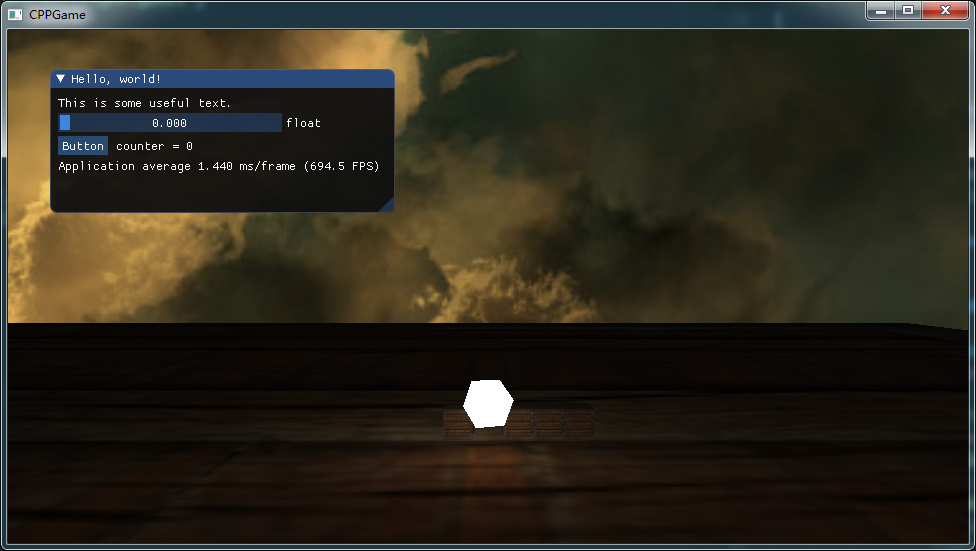
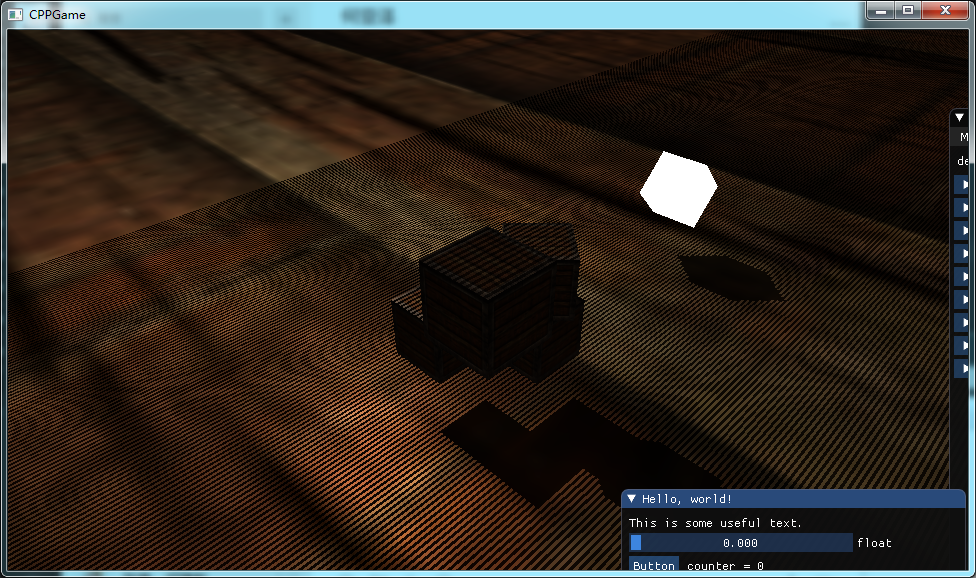
* 实现了最简单的阴影

diff --git a/FrameWork/Render/Platform/Windows/GraphicsManager.cpp b/FrameWork/Render/Platform/Windows/GraphicsManager.cpp
@@ -78,9 +78,17 @@ namespace GameEngine
     {
     }
 
+    void GraphicsManager::SetTexture(SharedShaderProgramBase shader, std::string name, int id)
+    {
+        shader->Use();
+        shader->setInt(name, textureIndex);
+        glActiveTexture(GL_TEXTURE0 + textureIndex);
+        glBindTexture(GL_TEXTURE_2D, id);
+        textureIndex++;
+    }
+
     void GraphicsManager::PrepareMaterial(SharedMaterial material)
     {
-        int textureID = 0;
         if (material->shaderID <= 0)
             material->shaderID = g_pShaderManager->AddShaderByPath(
                 material->GetShaderPath(ShaderType::Vertex),
@@ -89,10 +97,7 @@ namespace GameEngine
         // SetModelInfos(rC.modelInfos);
         // SetUBOData(shader);
         shader->Use();
-        shader->setInt("shadowMap", textureID);
-        glActiveTexture(GL_TEXTURE0 + textureID);
-        glBindTexture(GL_TEXTURE_2D, shadowMap);
-        textureID++;
+        SetTexture(shader, "shadowMap", shadowMap);
         for (size_t i = 0; i < material->m_MaterialDatas.size(); i++)
         {
             switch (material->m_MaterialDatas[i].m_Type)
@@ -112,14 +117,11 @@ namespace GameEngine
                     SharedTexture image = g_pAssetManager->LoadTexture(property);
                     if (!image)
                         image = g_pAssetManager->getWhiteTexture();
-                    shader->setInt(material->m_MaterialDatas[i].m_Name, textureID);
                     if (image->id <= 0)
                     {
                         BindTexture(image);
                     }
-                    glActiveTexture(GL_TEXTURE0 + textureID);
-                    glBindTexture(GL_TEXTURE_2D, image->id);
-                    textureID++;
+                    SetTexture(shader, material->m_MaterialDatas[i].m_Name, image->id);
                 }
                 break;
             }
@@ -127,6 +129,7 @@ namespace GameEngine
                 break;
             }
         }
+        textureIndex = 0;
     }
 
     void GraphicsManager::BindTexture(SharedTexture texture)
@@ -351,21 +354,20 @@ namespace GameEngine
         const int32_t kShadowMapWidth = 1024;
         const int32_t kShadowMapHeight = 1024;
 
-        auto fbo = (GLuint)shadowFBO;
-        glGenFramebuffers(1, &fbo);
-        glBindFramebuffer(GL_FRAMEBUFFER, fbo);
-        glFramebufferTextureLayer(GL_FRAMEBUFFER, GL_DEPTH_ATTACHMENT, (GLuint)shadowMap, 0, layerIndex);
-
+        glGenFramebuffers(1, &shadowFBO);
+        glBindFramebuffer(GL_FRAMEBUFFER, shadowFBO);
+        // glFramebufferTextureLayer(GL_FRAMEBUFFER, GL_DEPTH_ATTACHMENT, (GLuint)shadowMap, 0, layerIndex);
+        glFramebufferTexture2D(GL_DRAW_FRAMEBUFFER, GL_DEPTH_ATTACHMENT, GL_TEXTURE_2D, shadowMap, 0);
         // Always check that our framebuffer is ok
         auto status = glCheckFramebufferStatus(GL_FRAMEBUFFER);
         if (status != GL_FRAMEBUFFER_COMPLETE)
             assert(0);
 
-        glDrawBuffers(0, nullptr);  // No color buffer is drawn to.
+        glDrawBuffer(GL_NONE);
+        glReadBuffer(GL_NONE);
         glDepthMask(GL_TRUE);
         glClear(GL_DEPTH_BUFFER_BIT);
         glViewport(0, 0, kShadowMapWidth, kShadowMapHeight);
-        shadowFBO = fbo;
     }
     void GraphicsManager::EndShadow()
     {
@@ -376,26 +378,24 @@ namespace GameEngine
         if (shadowMap > 0)
         {
             DeleteShadowArrsy();
+            // return shadowMap;
         }
         // Depth texture. Slower than a depth buffer, but you can sample it later in your shader
         const int32_t kShadowMapWidth = 1024;
         const int32_t kShadowMapHeight = 1024;
 
-        auto shadow = (GLuint)shadowMap;
+        const GLuint SHADOW_WIDTH = 1024, SHADOW_HEIGHT = 1024;
 
-        glGenTextures(1, &shadow);
-        glActiveTexture(GL_TEXTURE0 + shadow);
-        glBindTexture(GL_TEXTURE_2D_ARRAY, shadow);
-        glTexStorage3D(GL_TEXTURE_2D_ARRAY, 1, GL_DEPTH_COMPONENT24, kShadowMapWidth, kShadowMapHeight, count);
-        glTexParameteri(GL_TEXTURE_2D_ARRAY, GL_TEXTURE_MAG_FILTER, GL_NEAREST);
-        glTexParameteri(GL_TEXTURE_2D_ARRAY, GL_TEXTURE_MIN_FILTER, GL_NEAREST);
-        glTexParameteri(GL_TEXTURE_2D_ARRAY, GL_TEXTURE_WRAP_S, GL_CLAMP_TO_EDGE);
-        glTexParameteri(GL_TEXTURE_2D_ARRAY, GL_TEXTURE_WRAP_T, GL_CLAMP_TO_EDGE);
-        glTexImage3D(GL_TEXTURE_2D_ARRAY, 0, GL_DEPTH_COMPONENT24, kShadowMapWidth, kShadowMapHeight, count, 0, GL_DEPTH_COMPONENT, GL_FLOAT, 0);
-
-        shadowMap = shadow;
+        glGenTextures(1, &shadowMap);
+        glBindTexture(GL_TEXTURE_2D, shadowMap);
+        glTexImage2D(GL_TEXTURE_2D, 0, GL_DEPTH_COMPONENT,
+                     SHADOW_WIDTH, SHADOW_HEIGHT, 0, GL_DEPTH_COMPONENT, GL_FLOAT, NULL);
+        glTexParameteri(GL_TEXTURE_2D, GL_TEXTURE_MIN_FILTER, GL_NEAREST);
+        glTexParameteri(GL_TEXTURE_2D, GL_TEXTURE_MAG_FILTER, GL_NEAREST);
+        glTexParameteri(GL_TEXTURE_2D, GL_TEXTURE_WRAP_S, GL_REPEAT);
+        glTexParameteri(GL_TEXTURE_2D, GL_TEXTURE_WRAP_T, GL_REPEAT);
         // register the shadow map
-        return static_cast<intptr_t>(shadow);
+        return static_cast<intptr_t>(shadowMap);
     }
     void GraphicsManager::DeleteShadowArrsy()
     {

diff --git a/GameLogic/MyGameLogic.cpp b/GameLogic/MyGameLogic.cpp
@@ -2,23 +2,36 @@
 
 #include "AssetLoader.h"
 #include "Camera.h"
+#include "GameObject.h"
 #include "Scene.h"
 #include "SceneManager.h"
+#include "Transform.h"
 
 namespace GameEngine
 {
     extern SceneManager *g_pSceneManager;
     extern AssetLoader *g_pAssetLoader;
+    VecterFloat3 rotation(0);
     int MyGameLogic::Initialize()
     {
         std::string sceneStr = g_pAssetLoader->SyncOpenAndReadTextFileToString("Scene/new.scene");
         auto json = cJSON_Parse(sceneStr.c_str());
-        SharePtr<Scene> m_Scene = std::make_shared<Scene>();
+        m_Scene = std::make_shared<Scene>();
         m_Scene->OnDeserialize(json);
         g_pSceneManager->SetNextScene(m_Scene);
+
+        auto trans = m_Scene->GetRootGameObject()->getChildByName("dirLight")->getComponent<Transform>();
+        auto lightmat4 = glm::lookAt(trans->GetPosition(), glm::vec3(0.0f), glm::vec3(0.0, 1.0, 0.0));
+        trans->SetMatrix(lightmat4);
+
+        trans = m_Scene->GetRootGameObject()->getChildByName("cameraObject")->getComponent<Transform>();
+        auto camera = glm::lookAt(trans->GetPosition(), glm::vec3(0.0f), glm::vec3(0.0, 1.0, 0.0));
+        trans->SetMatrix(camera);
         return 0;
     }
     void MyGameLogic::Finalize() {}
-    void MyGameLogic::Tick(float deltaTime) {}
+    void MyGameLogic::Tick(float deltaTime)
+    {
+    }
 
 }  // namespace GameEngine

diff --git a/FrameWork/Render/BaseGraphicsManager.cpp b/FrameWork/Render/BaseGraphicsManager.cpp
@@ -120,9 +120,7 @@ namespace GameEngine
             auto pos = transfrom->GetPosition();
             auto dir = transfrom->GetMatrix() * VecterFloat4(1, 0, 0, 0);
 
-            glm::mat4 lightProjection = glm::ortho(-10.0f, 10.0f, -10.0f, 10.0f, 1.0f, 7.5f);
-            
-            memcpy(m_LightInfos.lights[index].u_projection_matrix, glm::value_ptr(lightProjection), sizeof(float) * 4 *4);
+            memcpy(m_LightInfos.lights[index].u_projection_matrix, glm::value_ptr(glm::ortho(-30.0f, 30.0f, -30.0f, 30.0f, 0.10f, 100.f)), sizeof(float) * 4 *4);
             memcpy(m_LightInfos.lights[index].u_view_matrix, glm::value_ptr(transfrom->GetMatrix()), sizeof(float) * 4 *4);
 
             memcpy(m_LightInfos.lights[index].color, glm::value_ptr(light->GetColor()), sizeof(float) * 4);

diff --git a/FrameWork/Render/Platform/Windows/GraphicsManager.h b/FrameWork/Render/Platform/Windows/GraphicsManager.h
@@ -29,6 +29,7 @@ namespace GameEngine
         virtual void PrepareMaterial(SharedMaterial) override;
 
 #pragma region 设置Uniform
+        virtual void SetTexture(SharedShaderProgramBase shader, std::string name, int id) override;
         virtual void SetUBOData(SharedShaderProgramBase shader) override;
         virtual void SetLightInfo(const LightInfo& lightInfo) override;
         virtual void SetViewInfos(const ViewInfos& infos) override;
@@ -52,6 +53,8 @@ namespace GameEngine
 
         unsigned int shadowMap = 0;
         unsigned int shadowFBO = 0;
+
+        int textureIndex = 0;
     };
 
 }  // namespace GameEngine

diff --git a/FrameWork/Render/Sub/ShadowPass.h b/FrameWork/Render/Sub/ShadowPass.h
@@ -31,8 +31,7 @@ namespace GameEngine
             auto shader = g_pShaderManager->GetShaderProgram(m_ShaderID);
             shader->Use();
             auto m_LightInfos = g_pGraphicsManager->GetLightInfo();
-			g_pGraphicsManager->DeleteShadowArrsy();
-            auto shadowMap = g_pGraphicsManager->GetShadowArray(m_LightInfos.numsLight);
+            g_pGraphicsManager->GetShadowArray(m_LightInfos.numsLight);
             uint32_t index = 0;
             for (int i = 0; i < m_LightInfos.numsLight; i++)
             {

diff --git a/FrameWork/Render/Draw/ForwardDrawPass.h b/FrameWork/Render/Draw/ForwardDrawPass.h
@@ -14,7 +14,7 @@ namespace GameEngine
             m_SubPasses.push_back(std::make_shared<ShadowPass>());
             m_SubPasses.push_back(std::make_shared<ForwardPass>());
             m_SubPasses.push_back(std::make_shared<CubPass>());
-            // m_SubPasses.push_back(std::make_shared<ImGuiPass>());
+            m_SubPasses.push_back(std::make_shared<ImGuiPass>());
 
             for (auto pass : m_SubPasses)
             {

diff --git a/FrameWork/Scene/Transform.cpp b/FrameWork/Scene/Transform.cpp
@@ -41,7 +41,10 @@ namespace GameEngine
         m_Matrix = glm::scale(m_Matrix, scale);
         m_Matrix = m_Matrix * glm::mat4_cast(glm::qua<float>(glm::radians(rotation)));
     }
-
+    void Transform::SetMatrix(glm::mat4 mat4)
+    {
+        m_Matrix = glm::mat4(mat4);
+    }
     void Transform::OnSerialize(cJSON *root)
     {
         SerializableHelper::Seserialize(root, "rotation", m_Rotation);

diff --git a/FrameWork/Render/BaseGraphicsManager.h b/FrameWork/Render/BaseGraphicsManager.h
@@ -39,6 +39,7 @@ namespace GameEngine
 
         virtual void SetUBOData(SharedShaderProgramBase shader) = 0;
 
+        virtual void SetTexture(SharedShaderProgramBase shader, std::string name, int id) = 0;
         virtual void SetLightInfo(const LightInfo& lightInfo) = 0;
         virtual void SetViewInfos(const ViewInfos& infos) = 0;
         virtual void SetModelInfos(const ModelInfos& infos) = 0;

diff --git a/FrameWork/Scene/Transform.h b/FrameWork/Scene/Transform.h
@@ -29,6 +29,8 @@ namespace GameEngine
         void SetMatrix(VecterFloat3 position, VecterFloat3 scale, VecterFloat3 rotation);
         GlmMat4 GetMatrix() { return m_Matrix; }
 
+        void SetMatrix(glm::mat4 mat4);
+
         virtual void OnSerialize(cJSON *root) override;
         virtual void OnDeserialize(cJSON *root) override;
 

diff --git a/GameLogic/MyGameLogic.h b/GameLogic/MyGameLogic.h
@@ -3,12 +3,15 @@
 
 namespace GameEngine
 {
+	class Scene;
     class MyGameLogic : public GameLogic
     {
     private:
+		SharePtr<Scene> m_Scene;
     public:
         virtual int Initialize() override;
         virtual void Finalize() override;
         virtual void Tick(float deltaTime) override;
+
     };
 }  // namespace GameEngine
